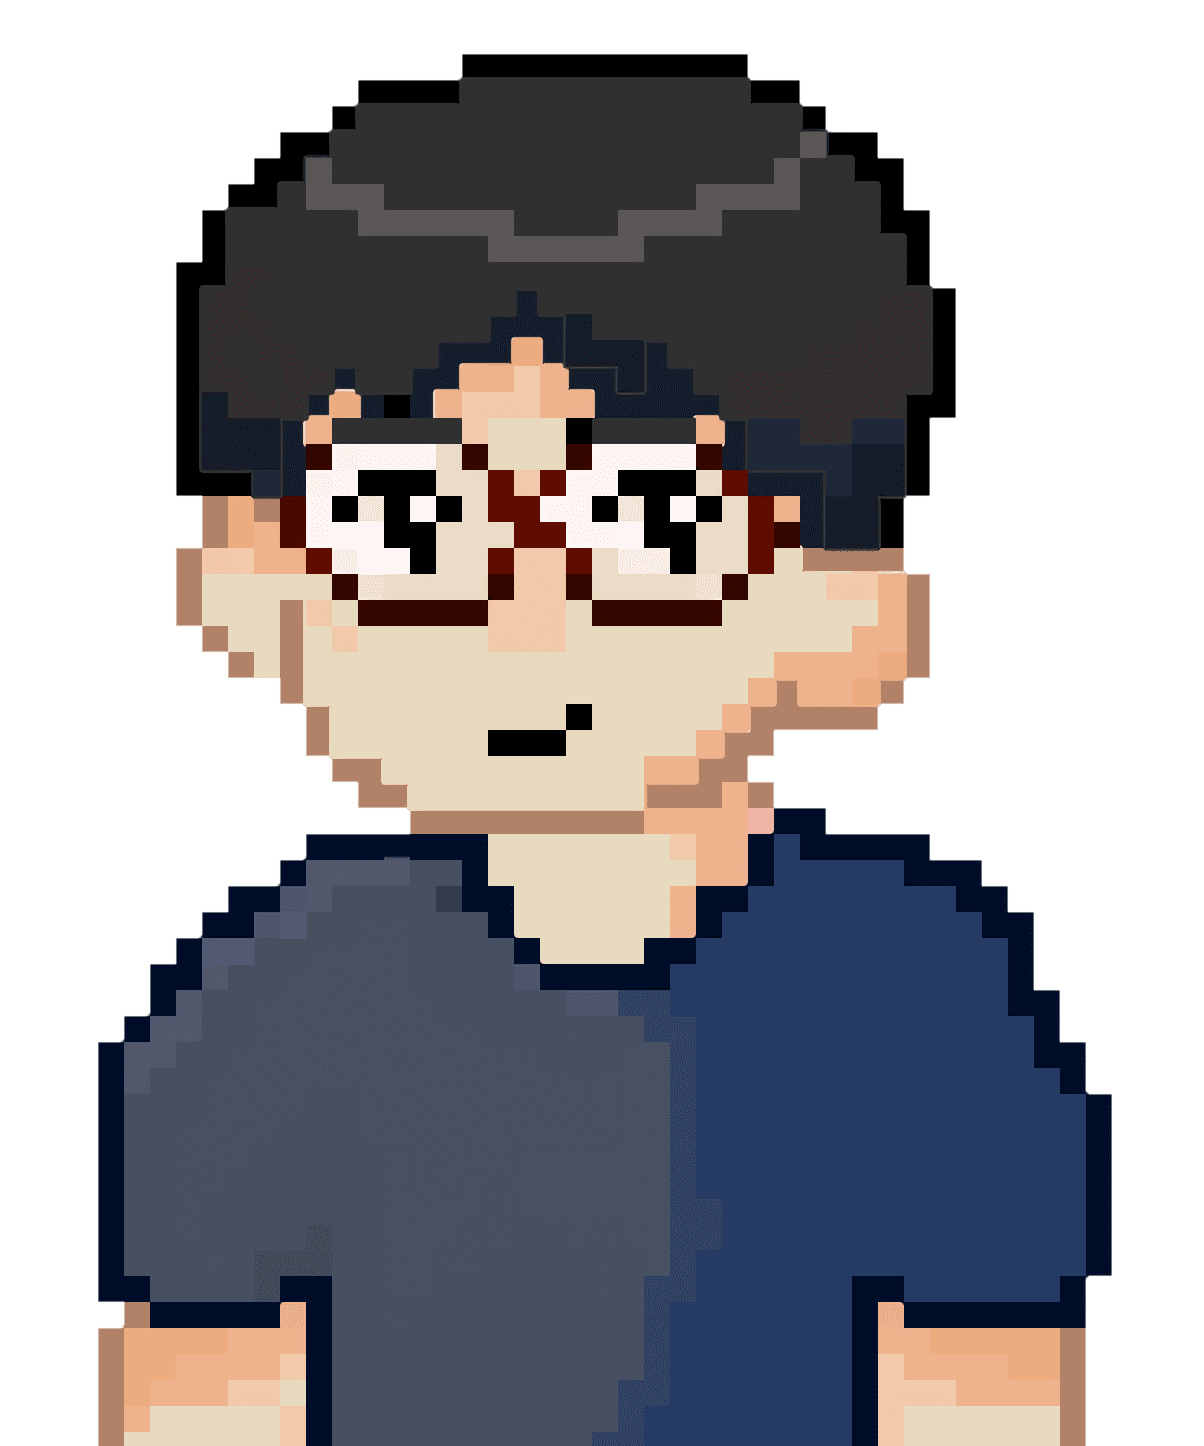
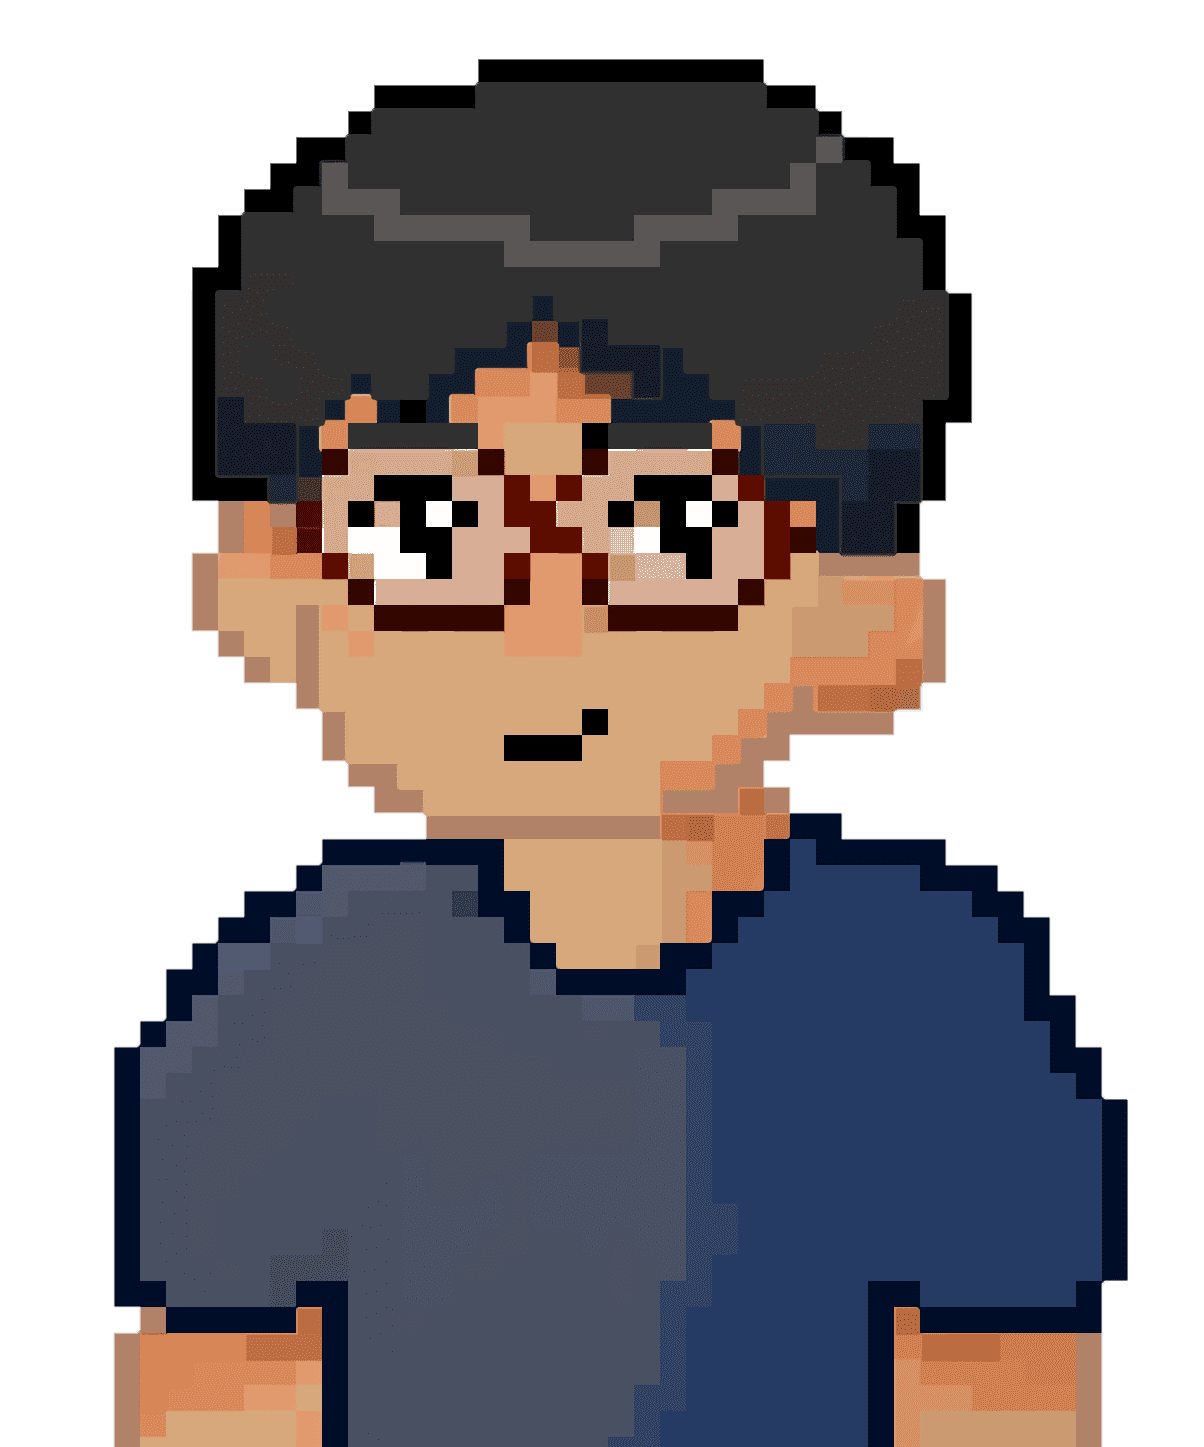
Actualizar el autor en los metadatos de index.html y agregar una nueva imagen Jeffry.png.

Changed region(s): [[0.0615, 0.0311, 0.9527, 1.0]]

diff --git a/index.html b/index.html
@@ -13,7 +13,7 @@
     <meta property="og:image" content="https://www.jeffg.site/og-image.jpg" />
     <meta property="og:url" content="https://www.jeffg.site" />
     <meta property="og:type" content="website" />
-    <meta property="article:author" content="Jeff G" />
+    <meta property="article:author" content="Jefferson Garcia" />
     <meta property="article:published_time" content="2025-04-28T00:00:00Z" />
 
     <link rel="preconnect" href="https://fonts.googleapis.com" />
